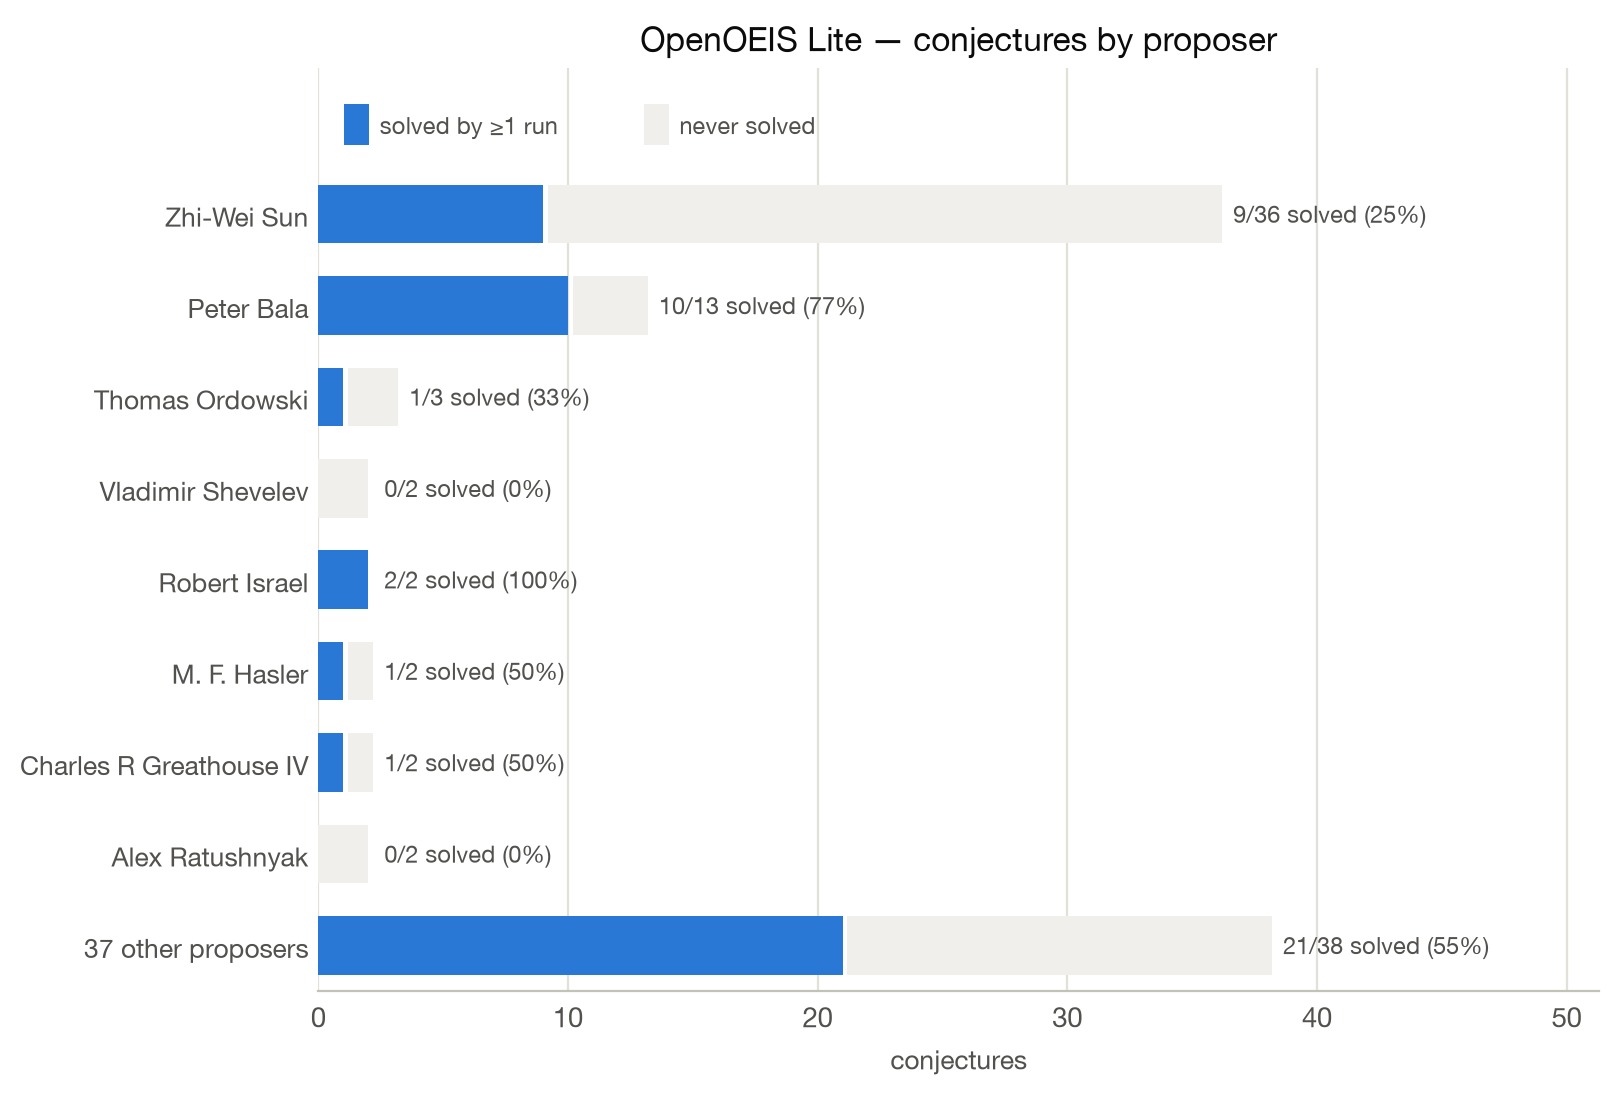
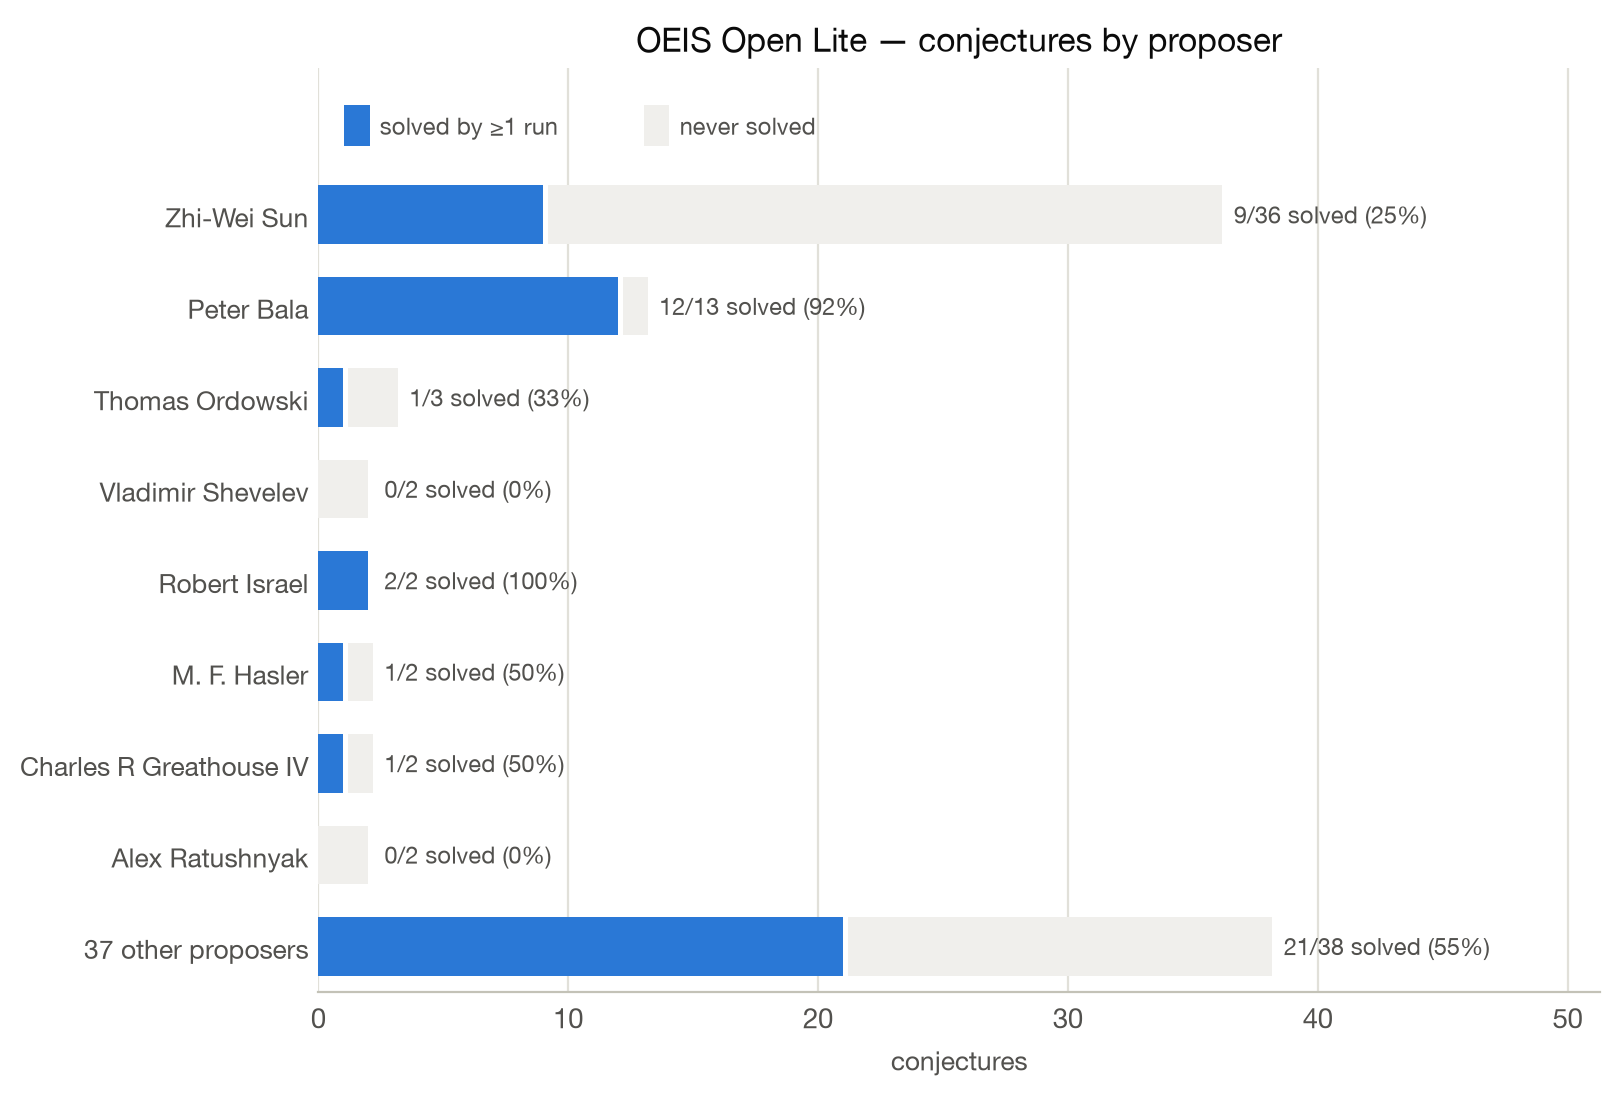
Rename benchmark to OEIS Open in plots; remaining plot scripts tolerate unscored samples

diff --git a/plots/make_price_to_solve.py b/plots/make_price_to_solve.py
@@ -54,11 +54,11 @@ def read_run(run_glob):
         for sd in Path(run).iterdir():
             if not sd.is_dir():
                 continue
-            sc = json.loads((sd / "scores.json").read_text())["proof_scorer"]
+            sc = json.loads((sd / "scores.json").read_text()).get("proof_scorer") or {}
             info = json.loads((sd / "info.json").read_text())
             cost = sum(u.get("total_cost", 0)
                        for u in (info.get("model_usage") or {}).values())
-            out[sd.name] = (max(cost, 0.01), sc["value"] == "C")
+            out[sd.name] = (max(cost, 0.01), sc.get("value") == "C")
     return out
 
 data = {}  # provider -> list of (time, event); needs a full run as the backbone

diff --git a/plots/make_citation_plots.py b/plots/make_citation_plots.py
@@ -55,9 +55,9 @@ def collect(glob_pat):
         for sd in Path(run).iterdir():
             if not sd.is_dir():
                 continue
-            sc = json.loads((sd / "scores.json").read_text())["proof_scorer"]
+            sc = json.loads((sd / "scores.json").read_text()).get("proof_scorer") or {}
             info = json.loads((sd / "info.json").read_text())
-            hits[sd.name][prov].append(sc["value"] == "C")
+            hits[sd.name][prov].append(sc.get("value") == "C")
             oeis_of[sd.name] = info.get("oeis_id")
     frac = {s: {p: sum(v) / len(v) for p, v in per.items()} for s, per in hits.items()}
     return frac, oeis_of

diff --git a/plots/make_proposed_year_plot.py b/plots/make_proposed_year_plot.py
@@ -53,9 +53,9 @@ def collect(glob_pat):
         for sd in Path(run).iterdir():
             if not sd.is_dir():
                 continue
-            sc = json.loads((sd / "scores.json").read_text())["proof_scorer"]
+            sc = json.loads((sd / "scores.json").read_text()).get("proof_scorer") or {}
             tid = json.loads((sd / "info.json").read_text())["id"]
-            hits[tid][prov].append(sc["value"] == "C")
+            hits[tid][prov].append(sc.get("value") == "C")
     return {s: {p: sum(v) / len(v) for p, v in per.items()} for s, per in hits.items()}
 
 full_frac = collect("oeis-full-*")

diff --git a/plots/make_proposer_plot.py b/plots/make_proposer_plot.py
@@ -46,8 +46,8 @@ def outcomes(glob_pat):
         for sd in Path(run).iterdir():
             if not sd.is_dir():
                 continue
-            sc = json.loads((sd / "scores.json").read_text())["proof_scorer"]
-            solved[sd.name] |= sc["value"] == "C"
+            sc = json.loads((sd / "scores.json").read_text()).get("proof_scorer") or {}
+            solved[sd.name] |= sc.get("value") == "C"
     return dict(solved), len(runs)
 
 def proposer_plot(solved, top_n, title, fname):

diff --git a/plots/make_proof_disproof_cost_plot.py b/plots/make_proof_disproof_cost_plot.py
@@ -50,7 +50,7 @@ for run in glob.glob(str(LOGS / "oeis-*" / "*_plaintext")):
     for sd in Path(run).iterdir():
         if not sd.is_dir():
             continue
-        if json.loads((sd / "scores.json").read_text())["proof_scorer"]["value"] != "C":
+        if (json.loads((sd / "scores.json").read_text()).get("proof_scorer") or {}).get("value") != "C":
             continue
         info = json.loads((sd / "info.json").read_text())
         cost = max(sum(u.get("total_cost", 0)

diff --git a/plots/bench_names.py b/plots/bench_names.py
@@ -1,10 +1,10 @@
 """Display names for the benchmark, in one place because the name may change.
 
 Current names follow the paper draft: the full 492-conjecture set is plain
-"OpenOEIS"; the 100-conjecture subset is "OpenOEIS Lite".
+"OEIS Open"; the 100-conjecture subset is "OEIS Open Lite".
 """
 
-BENCH = "OpenOEIS"
+BENCH = "OEIS Open"
 BENCH_FULL = BENCH
 BENCH_LITE = f"{BENCH} Lite"
 ALPHAPROOF_NEXUS = "AlphaProof Nexus"
